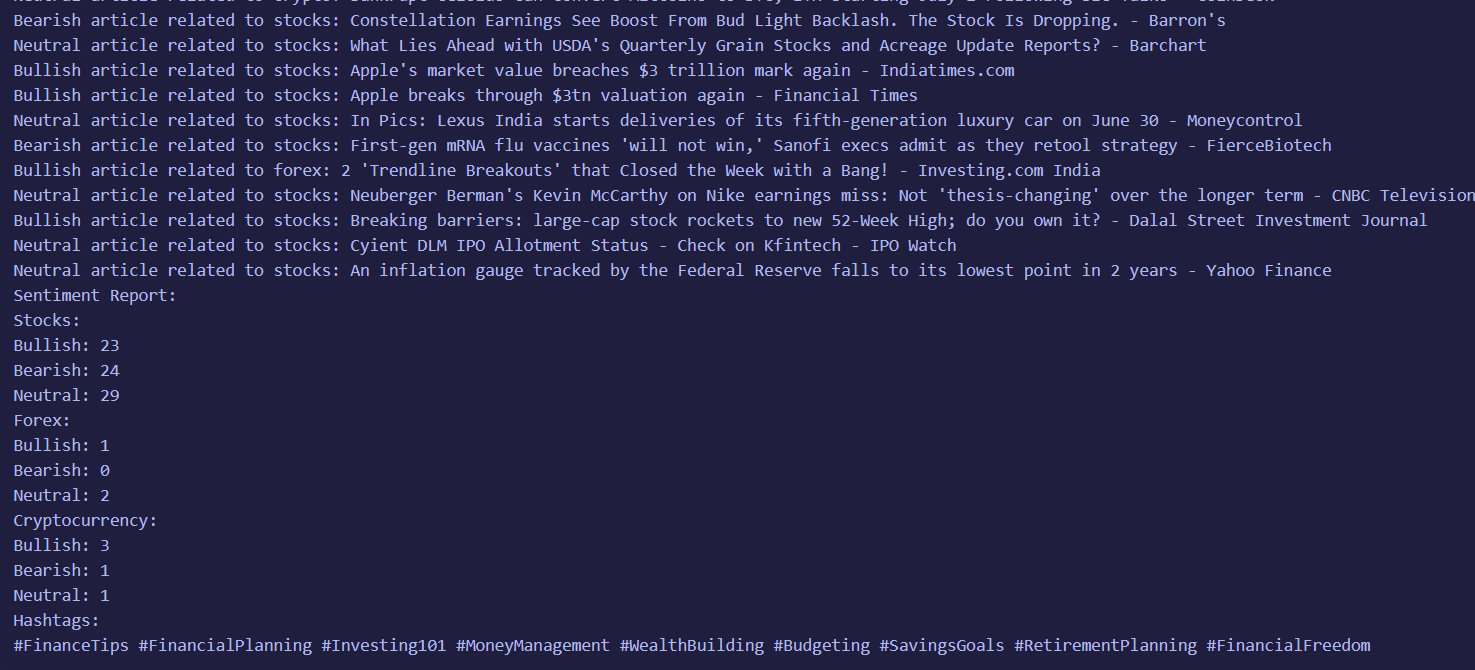
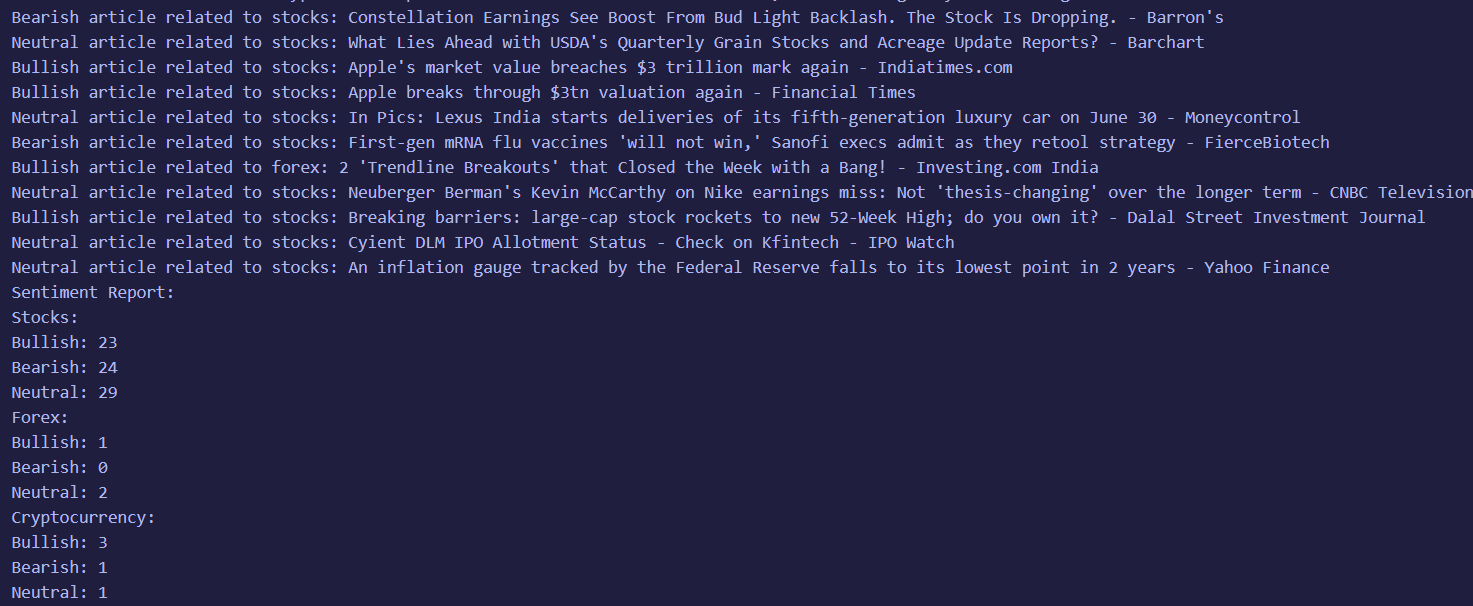
Updated screenshot, Added VADER as sentiment analysis algorithm, Removed unnecessary hashtag fetching, Updated example config file and README.md

Changed region(s): [[0.0, 0.0, 1.0, 1.0]]

diff --git a/index.js b/index.js
@@ -1,44 +1,79 @@
-import axios from 'axios';
-import config from './config.json' assert {type: 'json'};
+import axios from "axios";
+import config from "./config.json" assert { type: "json" };
+import { SentimentIntensityAnalyzer } from "vader-sentiment";
 
 const getTopHeadlines = async () => {
   try {
-    const response = await axios.get('https://newsapi.org/v2/top-headlines', {
+    const response = await axios.get("https://newsapi.org/v2/top-headlines", {
       params: {
         apiKey: config.NEWS_API_KEY,
-        category: 'business',
-        language: 'en',
+        category: "business",
+        language: "en",
         pageSize: 100,
       },
     });
 
     return response.data.articles;
   } catch (error) {
-    console.error('Error fetching top headlines:', error.message);
+    console.error("Error fetching top headlines:", error.message);
     return [];
   }
 };
 
 const analyzeSentiment = async (articleTitle) => {
+  let result = "";
   const prompt = `Act as best trader in the world and analyze the following article title: "${articleTitle}". Is the sentiment of the article neutral, bullish, or bearish? After that, specify if the article is related to cryptocurrency, forex, or stocks. You need to determine which market the article is primarily related to. Do not state that the article has no relationship to any of these markets. Write in lowercase.`;
 
   try {
-    const response = await axios.post('https://api.openai.com/v1/completions', {
-      prompt: prompt.trim(),
-      model: 'text-davinci-003',
-      max_tokens: 250,
-      temperature: 0.7,
-    }, {
-      headers: {
-        'Content-Type': 'application/json',
-        Authorization: `Bearer ${config.OPENAI_API_KEY}`,
+    const response = await axios.post(
+      "https://api.openai.com/v1/completions",
+      {
+        prompt: prompt.trim(),
+        model: "text-davinci-003",
+        max_tokens: 250,
+        temperature: 0.7,
       },
-    });
+      {
+        headers: {
+          "Content-Type": "application/json",
+          Authorization: `Bearer ${config.OPENAI_API_KEY}`,
+        },
+      }
+    );
 
-    return response.data.choices[0].text;
+    result = response.data.choices[0].text;
   } catch (error) {
-    console.error('Error analyzing sentiment:', error.message);
-    return '';
+    console.error("Error analyzing sentiment:", error.message);
+    return "";
+  }
+
+  if (config.SENTIMENT_ANALYSIS_ALGORITHM == "vader") {
+    let vaderResult = SentimentIntensityAnalyzer.polarity_scores(articleTitle);
+
+    // Sort object by value descending
+    vaderResult = Object.fromEntries(
+      Object.entries(vaderResult).sort(([, a], [, b]) => b - a)
+    );
+    
+    const highestSentiment = Object.keys(vaderResult)[0];
+    switch (highestSentiment) {
+      case "pos":
+        vaderResult = "bullish";
+        break;
+      case "neg":
+        vaderResult = "bearish";
+        break;
+      default:
+        vaderResult = "neutral";
+        break;
+    }
+
+    // Replace neutral, bullish or bearish in chatgpt response with vader sentiment
+    if (result.match(/neutral|bullish|bearish/g)?.length > 0) {
+      result = result.replace("bullish", vaderResult);
+    }
+
+    return result;
   }
 };
 
@@ -46,47 +81,20 @@ const incrementSentiment = (report, market, sentiment) => {
   report[market][sentiment]++;
 };
 
-const generateHashtags = async () => {
-  try {
-    const gptPrompt = 'Please suggest the most relevant SEO hashtags for finance.';
-    const response = await axios.post('https://api.openai.com/v1/chat/completions', {
-      messages: [{ role: 'system', content: gptPrompt }],
-      max_tokens: 32,
-      temperature: 0.7,
-      model: 'gpt-3.5-turbo',
-    }, {
-      headers: {
-        'Content-Type': 'application/json',
-        Authorization: `Bearer ${config.OPENAI_API_KEY}`,
-      },
-    });
-
-    const chatCompletion = response.data.choices[0].message.content;
-    const hashtags = chatCompletion.match(/#[^\s#]+/g) || [];
-
-    return hashtags.map((tag) => tag.trim());
-  } catch (error) {
-    console.error('Error generating hashtags:', error.message);
-    return [];
-  }
-};
-
-const printReport = (report, hashtags) => {
-  console.log('Sentiment Report:');
-  console.log('Stocks:');
+const printReport = (report) => {
+  console.log("Sentiment Report:");
+  console.log("Stocks:");
   console.log(`Bullish: ${report.stocks.bullish}`);
   console.log(`Bearish: ${report.stocks.bearish}`);
   console.log(`Neutral: ${report.stocks.neutral}`);
-  console.log('Forex:');
+  console.log("Forex:");
   console.log(`Bullish: ${report.forex.bullish}`);
   console.log(`Bearish: ${report.forex.bearish}`);
   console.log(`Neutral: ${report.forex.neutral}`);
-  console.log('Cryptocurrency:');
+  console.log("Cryptocurrency:");
   console.log(`Bullish: ${report.cryptocurrency.bullish}`);
   console.log(`Bearish: ${report.cryptocurrency.bearish}`);
   console.log(`Neutral: ${report.cryptocurrency.neutral}`);
-  console.log('Hashtags:');
-  console.log(hashtags.join(' '));
 };
 
 const crawlFinanceNews = async () => {
@@ -109,52 +117,48 @@ const crawlFinanceNews = async () => {
         neutral: 0,
       },
     };
-    let hashtags = [];
 
     for (const article of articles) {
       const articleTitle = article.title;
       const sentiment = await analyzeSentiment(articleTitle);
 
-      if (sentiment.includes('bullish')) {
-        if (sentiment.includes('crypto')) {
-          console.log('Bullish article related to crypto:', articleTitle);
-          incrementSentiment(report, 'cryptocurrency', 'bullish');
-        } else if (sentiment.includes('stock')) {
-          console.log('Bullish article related to stocks:', articleTitle);
-          incrementSentiment(report, 'stocks', 'bullish');
-        } else if (sentiment.includes('forex')) {
-          console.log('Bullish article related to forex:', articleTitle);
-          incrementSentiment(report, 'forex', 'bullish');
+      if (sentiment.includes("bullish")) {
+        if (sentiment.includes("crypto")) {
+          console.log("Bullish article related to crypto:", articleTitle);
+          incrementSentiment(report, "cryptocurrency", "bullish");
+        } else if (sentiment.includes("stock")) {
+          console.log("Bullish article related to stocks:", articleTitle);
+          incrementSentiment(report, "stocks", "bullish");
+        } else if (sentiment.includes("forex")) {
+          console.log("Bullish article related to forex:", articleTitle);
+          incrementSentiment(report, "forex", "bullish");
         }
-      } else if (sentiment.includes('bearish')) {
-        if (sentiment.includes('crypto')) {
-          console.log('Bearish article related to crypto:', articleTitle);
-          incrementSentiment(report, 'cryptocurrency', 'bearish');
-        } else if (sentiment.includes('stock')) {
-          console.log('Bearish article related to stocks:', articleTitle);
-          incrementSentiment(report, 'stocks', 'bearish');
-        } else if (sentiment.includes('forex')) {
-          console.log('Bearish article related to forex:', articleTitle);
-          incrementSentiment(report, 'forex', 'bearish');
+      } else if (sentiment.includes("bearish")) {
+        if (sentiment.includes("crypto")) {
+          console.log("Bearish article related to crypto:", articleTitle);
+          incrementSentiment(report, "cryptocurrency", "bearish");
+        } else if (sentiment.includes("stock")) {
+          console.log("Bearish article related to stocks:", articleTitle);
+          incrementSentiment(report, "stocks", "bearish");
+        } else if (sentiment.includes("forex")) {
+          console.log("Bearish article related to forex:", articleTitle);
+          incrementSentiment(report, "forex", "bearish");
         }
-      } else if (sentiment.includes('neutral')) {
-        if (sentiment.includes('crypto')) {
-          console.log('Neutral article related to crypto:', articleTitle);
-          incrementSentiment(report, 'cryptocurrency', 'neutral');
-        } else if (sentiment.includes('stock')) {
-          console.log('Neutral article related to stocks:', articleTitle);
-          incrementSentiment(report, 'stocks', 'neutral');
-        } else if (sentiment.includes('forex')) {
-          console.log('Neutral article related to forex:', articleTitle);
-          incrementSentiment(report, 'forex', 'neutral');
+      } else if (sentiment.includes("neutral")) {
+        if (sentiment.includes("crypto")) {
+          console.log("Neutral article related to crypto:", articleTitle);
+          incrementSentiment(report, "cryptocurrency", "neutral");
+        } else if (sentiment.includes("stock")) {
+          console.log("Neutral article related to stocks:", articleTitle);
+          incrementSentiment(report, "stocks", "neutral");
+        } else if (sentiment.includes("forex")) {
+          console.log("Neutral article related to forex:", articleTitle);
+          incrementSentiment(report, "forex", "neutral");
         }
       }
     }
-
-    hashtags = await generateHashtags();
-    printReport(report, hashtags);
   } catch (error) {
-    console.error('Error crawling finance news:', error.message);
+    console.error("Error crawling finance news:", error.message);
   }
 };
 
